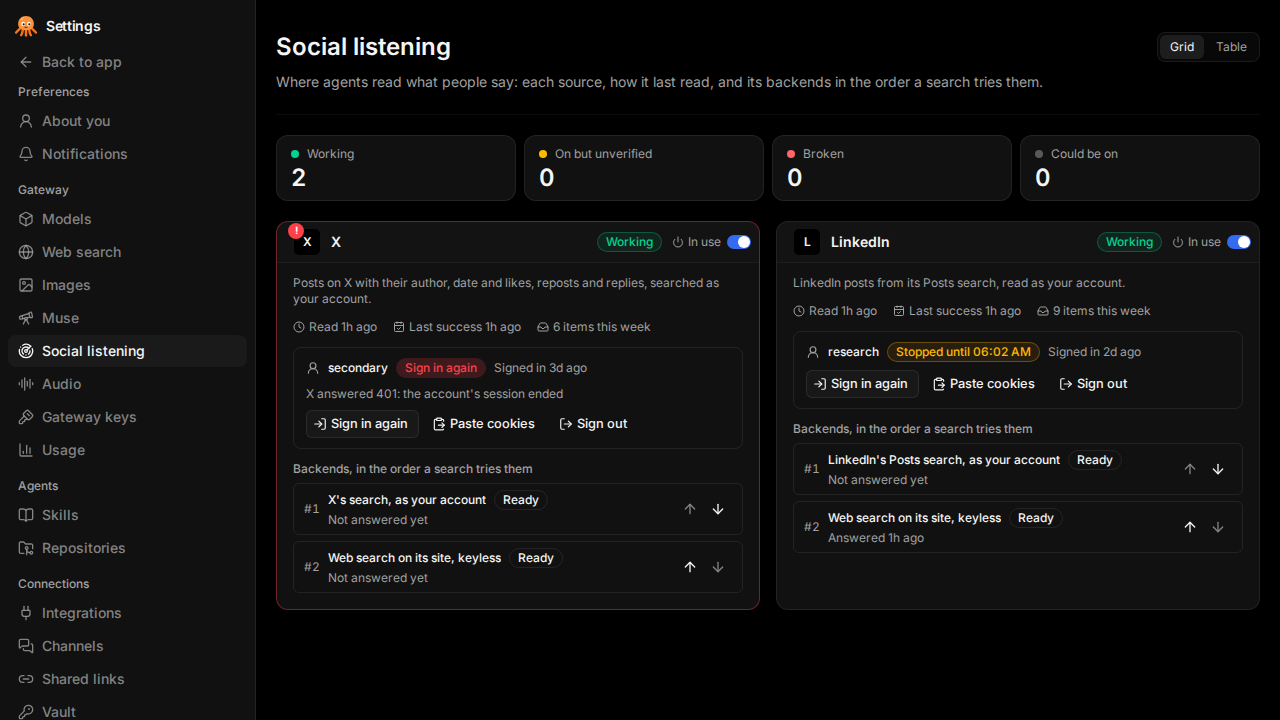
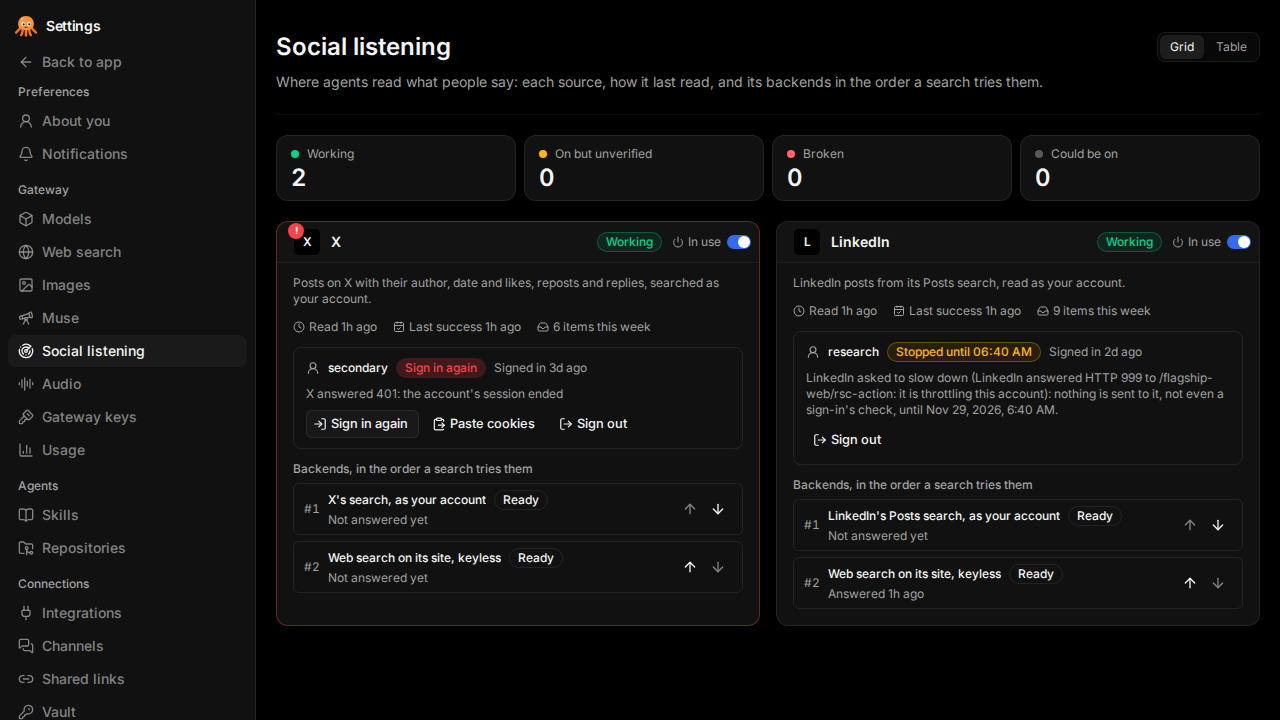
test(web): the signed-in sources' pictures after review round 1 (#1291)

Changed region(s): [[0.625, 0.4583, 0.9688, 0.7639], [0.625, 0.7944, 0.8125, 0.8556]]

diff --git a/docs/ui-checks/1291/index.html b/docs/ui-checks/1291/index.html
@@ -18,26 +18,26 @@
 <body>
   <main>
     <h1>Settings → Gateway → Social listening: signed-in sources (issue #1291)</h1>
-    <p>Taken by <code>web/tests/listening-accounts.spec.ts</code> against a fake client API, desktop (Desktop Chrome) and phone (Pixel 7), light and dark (<code>UI_CHECK</code>, <code>UI_THEME</code>). Account names and cookies are made up.</p>
+    <p>Taken by <code>web/tests/listening-accounts.spec.ts</code> against a fake client API, desktop (Desktop Chrome) and phone (Pixel 7), light and dark (<code>UI_CHECK</code>, <code>UI_THEME</code>). Account names and cookies are made up. Review round 1 of PR #1359 gave the consent cards their full wording, added LinkedIn's, and moved LinkedIn's stop to the site.</p>
 
     <section>
-      <h2>X before its consent; LinkedIn signed in, stopped after a rate-limit page</h2>
+      <h2>X before its consent; LinkedIn stopped a day after a rate-limit answer, no sign-in offered meanwhile</h2>
       <div class="screens">
         <figure>
           <figcaption>Desktop, light</figcaption>
-          <img src="light/listening-signed-sources-desktop.png" alt="X before its consent; LinkedIn signed in, stopped after a rate-limit page, desktop, light">
+          <img src="light/listening-signed-sources-desktop.png" alt="X before its consent; LinkedIn stopped a day after a rate-limit answer, no sign-in offered meanwhile, desktop, light">
         </figure>
         <figure>
           <figcaption>Phone, light</figcaption>
-          <img src="light/listening-signed-sources-phone.png" alt="X before its consent; LinkedIn signed in, stopped after a rate-limit page, phone, light">
+          <img src="light/listening-signed-sources-phone.png" alt="X before its consent; LinkedIn stopped a day after a rate-limit answer, no sign-in offered meanwhile, phone, light">
         </figure>
         <figure>
           <figcaption>Desktop, dark</figcaption>
-          <img src="dark/listening-signed-sources-desktop.png" alt="X before its consent; LinkedIn signed in, stopped after a rate-limit page, desktop, dark">
+          <img src="dark/listening-signed-sources-desktop.png" alt="X before its consent; LinkedIn stopped a day after a rate-limit answer, no sign-in offered meanwhile, desktop, dark">
         </figure>
         <figure>
           <figcaption>Phone, dark</figcaption>
-          <img src="dark/listening-signed-sources-phone.png" alt="X before its consent; LinkedIn signed in, stopped after a rate-limit page, phone, dark">
+          <img src="dark/listening-signed-sources-phone.png" alt="X before its consent; LinkedIn stopped a day after a rate-limit answer, no sign-in offered meanwhile, phone, dark">
         </figure>
       </div>
     </section>
@@ -60,6 +60,28 @@
         <figure>
           <figcaption>Phone, dark</figcaption>
           <img src="dark/listening-consent-phone.png" alt="X's consent card, its fixed wording, phone, dark">
+        </figure>
+      </div>
+    </section>
+
+    <section>
+      <h2>LinkedIn's consent card, its own words</h2>
+      <div class="screens">
+        <figure>
+          <figcaption>Desktop, light</figcaption>
+          <img src="light/listening-consent-linkedin-desktop.png" alt="LinkedIn's consent card, desktop, light">
+        </figure>
+        <figure>
+          <figcaption>Phone, light</figcaption>
+          <img src="light/listening-consent-linkedin-phone.png" alt="LinkedIn's consent card, phone, light">
+        </figure>
+        <figure>
+          <figcaption>Desktop, dark</figcaption>
+          <img src="dark/listening-consent-linkedin-desktop.png" alt="LinkedIn's consent card, desktop, dark">
+        </figure>
+        <figure>
+          <figcaption>Phone, dark</figcaption>
+          <img src="dark/listening-consent-linkedin-phone.png" alt="LinkedIn's consent card, phone, dark">
         </figure>
       </div>
     </section>
